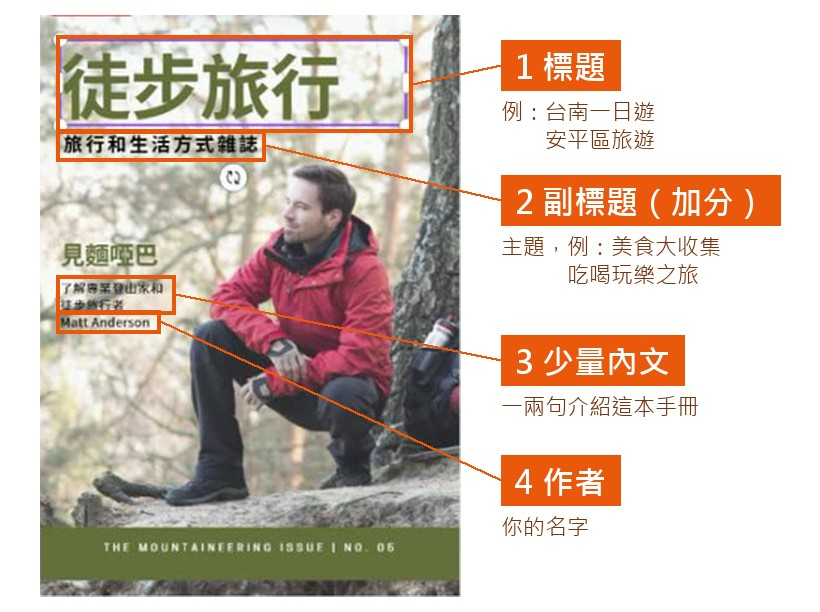
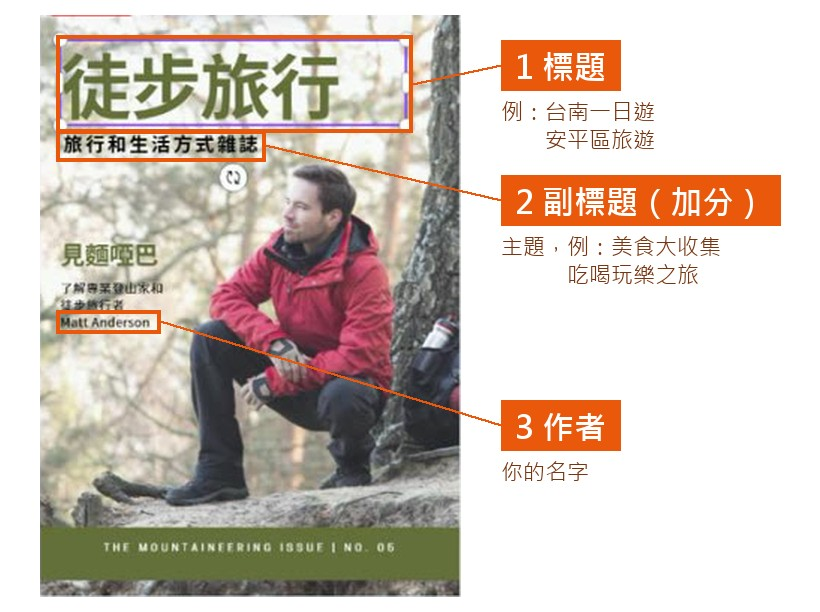
publish g4/L08

diff --git a/g4/L08/pages/第1課_開工與封面.html b/g4/L08/pages/第1課_開工與封面.html
@@ -222,8 +222,8 @@
   </section>
   <section class="step s-orange hidden" data-step="4">
     <div class="shead"><h2><span class="no">4</span>改封面的字</h2><a class="wlink" href="技能百科.html?cat=text"><svg viewBox="0 0 24 24" width="24" height="24" fill="none" stroke="currentColor" stroke-width="2.4" stroke-linecap="round" stroke-linejoin="round" aria-hidden="true"><path d="M4 5a2 2 0 0 1 2-2h13v16H6a2 2 0 0 0-2 2z"/><path d="M4 19V5"/><path d="M9 8h6"/></svg>技能百科：文字</a></div>
-    <div class="goalcard"><img src="../assets/封面_改哪裡.jpg" alt="範本封面：1 標題、2 副標題（加分）、3 少量內文、4 作者，各在哪裡改" class="shot zoomable"><div class="say">封面要有：<br><b>1 標題</b>（例：台南一日遊、安平區旅遊）<br><b>2 副標題</b>＝主題（例：美食大收集、吃喝玩樂之旅）<span style="color:var(--brand-d)">，加分</span><br><b>3 少量內文</b>：一兩句介紹<br><b>4 作者</b>：你的名字<br><a class="btn-s" href="https://boyinslps.github.io/pcclass/g4/L04/" target="_blank" rel="noopener">打開我的景點資料（L04）↗</a><p class="sub" style="color:var(--muted)">範本的照片先留著；用不到的字，點一下框按 Delete 刪掉。</p></div></div><div class="sc sc-flat sc-nonum" data-sc><div class="sc-slide"><p class="sc-t">連按兩下改字，再調樣子和位置</p><div class="ss" data-ss data-imgs='[{&quot;src&quot;: &quot;../assets/步圖/改封面文字_01.jpg&quot;, &quot;cap&quot;: &quot;連按兩下書名&quot;}, {&quot;src&quot;: &quot;../assets/步圖/改封面文字_02.jpg&quot;, &quot;cap&quot;: &quot;按 Ctrl＋A，打自己的書名&quot;}, {&quot;src&quot;: &quot;../assets/步圖/改封面文字_03.jpg&quot;, &quot;cap&quot;: &quot;工具列：字型、大小、顏色&quot;}, {&quot;src&quot;: &quot;../assets/步圖/改封面文字_04.jpg&quot;, &quot;cap&quot;: &quot;按字型，左邊點一個&quot;}, {&quot;src&quot;: &quot;../assets/步圖/改封面文字_05.jpg&quot;, &quot;cap&quot;: &quot;按住框拖過去；白點調大小&quot;}, {&quot;src&quot;: &quot;../assets/步圖/改封面文字_06.jpg&quot;, &quot;cap&quot;: &quot;按住框拖過去；白點調大小&quot;}, {&quot;src&quot;: &quot;../assets/步圖/改封面文字_07.jpg&quot;, &quot;cap&quot;: &quot;按住框拖過去；白點調大小&quot;}, {&quot;src&quot;: &quot;../assets/步圖/改封面文字_08.jpg&quot;, &quot;cap&quot;: &quot;按住框拖過去；白點調大小&quot;}, {&quot;src&quot;: &quot;../assets/步圖/改封面文字_09.jpg&quot;, &quot;cap&quot;: &quot;封面的字改好了&quot;}]' data-video="../assets/步_canva_改封面文字.mp4"></div><p class="tip">字型：選後面寫「<b>繁體中文</b>」的。</p><p class="tip">用不到的字：點一下框 → <kbd>Delete</kbd>。</p><a class="bigwiki" href="技能百科.html?cat=text"><svg viewBox="0 0 24 24" width="24" height="24" fill="none" stroke="currentColor" stroke-width="2.4" stroke-linecap="round" stroke-linejoin="round" aria-hidden="true"><path d="M4 5a2 2 0 0 1 2-2h13v16H6a2 2 0 0 0-2 2z"/><path d="M4 19V5"/><path d="M9 8h6"/></svg>忘記怎麼做？→ 技能百科：文字</a></div></div><div class="sc sc-flat sc-nonum" data-sc><div class="sc-slide"><p class="sc-t">範本裡沒有的字？自己<b>新增</b>：標題、少量內文</p><div class="legend"><div><span class="n">1</span><span>左邊按「<b>文字</b>」</span></div><div><span class="n">2</span><span>大字用「<b>新增標題</b>」（標題、副標題）</span></div><div><span class="n">3</span><span>小字用「<b>新增少量內文文字</b>」（內文、作者）</span></div></div><div class="ss" data-ss data-imgs='[{&quot;src&quot;: &quot;../assets/步圖/加文字_01.jpg&quot;, &quot;cap&quot;: &quot;點左邊的「文字」&quot;}, {&quot;src&quot;: &quot;../assets/步圖/加文字_02.jpg&quot;, &quot;cap&quot;: &quot;點「新增標題」&quot;}, {&quot;src&quot;: &quot;../assets/步圖/加文字_03.jpg&quot;, &quot;cap&quot;: &quot;連按兩下，Ctrl＋A，直接打字&quot;}, {&quot;src&quot;: &quot;../assets/步圖/加文字_05.jpg&quot;, &quot;cap&quot;: &quot;按住文字，拖到想放的地方&quot;}]' data-video="../assets/步_canva_加文字.mp4"></div><p class="tip">圖裡是做第 2 頁標題的樣子，封面照著做就好。</p><a class="bigwiki" href="技能百科.html#add-text"><svg viewBox="0 0 24 24" width="24" height="24" fill="none" stroke="currentColor" stroke-width="2.4" stroke-linecap="round" stroke-linejoin="round" aria-hidden="true"><path d="M4 5a2 2 0 0 1 2-2h13v16H6a2 2 0 0 0-2 2z"/><path d="M4 19V5"/><path d="M9 8h6"/></svg>忘記怎麼做？→ 技能百科：加新的文字</a></div></div><div class="terms"><span class="th">📖 名詞小卡</span><dl><div class="row"><div class="tx"><dt>標題</dt><dd>：最上面最大的字，說明這是什麼（封面＝書名）</dd></div></div><div class="row"><div class="tx"><dt>副標題</dt><dd>：標題下面比較小的字，寫這本手冊的主題</dd></div></div><div class="row"><div class="tx"><dt>少量內文</dt><dd>：幾行小小的字，用來寫簡短的介紹</dd></div></div><div class="row"><div class="tx"><dt>文字框</dt><dd>：圍住一段字的框，拖框就能移動字</dd></div></div><div class="row"><div class="tx"><dt>字型</dt><dd>：字的樣子；要選標示「繁體中文」的，中文才會正常顯示</dd></div></div></dl></div>
-    <div class="checkbox"><p class="cbt">這一步檢查</p><label><input type="checkbox" class="chk"> <span>有我自己的<b>標題</b>（例：台南一日遊）</span></label><label><input type="checkbox" class="chk"> <span>有<b>作者</b>（我的名字）</span></label><label><input type="checkbox" class="chk"> <span>有一兩句<b>少量內文</b></span></label><label><input type="checkbox" class="chk"> <span><b>字型、大小、顏色、位置</b>，至少改了一項</span></label><label><input type="checkbox" class="chk"> <span>⭐ 加分：有<b>副標題</b>（主題）</span></label></div>
+    <div class="goalcard"><img src="../assets/封面_改哪裡.jpg" alt="範本封面：1 標題、2 副標題（加分）、3 作者，各在哪裡改" class="shot zoomable"><div class="say">封面要有：<br><b>1 標題</b>（例：台南一日遊、安平區旅遊）<br><b>2 副標題</b>＝主題（例：美食大收集、吃喝玩樂之旅）<span style="color:var(--brand-d)">，加分</span><br><b>3 作者</b>：你的名字<br><a class="btn-s" href="https://boyinslps.github.io/pcclass/g4/L04/" target="_blank" rel="noopener">打開我的景點資料（L04）↗</a><p class="sub" style="color:var(--muted)">範本的照片先留著；用不到的字，點一下框按 Delete 刪掉。</p></div></div><div class="sc sc-flat sc-nonum" data-sc><div class="sc-slide"><p class="sc-t">連按兩下改字，再調樣子和位置</p><div class="ss" data-ss data-imgs='[{&quot;src&quot;: &quot;../assets/步圖/改封面文字_01.jpg&quot;, &quot;cap&quot;: &quot;連按兩下書名&quot;}, {&quot;src&quot;: &quot;../assets/步圖/改封面文字_02.jpg&quot;, &quot;cap&quot;: &quot;按 Ctrl＋A，打自己的書名&quot;}, {&quot;src&quot;: &quot;../assets/步圖/改封面文字_03.jpg&quot;, &quot;cap&quot;: &quot;工具列：字型、大小、顏色&quot;}, {&quot;src&quot;: &quot;../assets/步圖/改封面文字_04.jpg&quot;, &quot;cap&quot;: &quot;按字型，左邊點一個&quot;}, {&quot;src&quot;: &quot;../assets/步圖/改封面文字_05.jpg&quot;, &quot;cap&quot;: &quot;按住框拖過去；白點調大小&quot;}, {&quot;src&quot;: &quot;../assets/步圖/改封面文字_06.jpg&quot;, &quot;cap&quot;: &quot;按住框拖過去；白點調大小&quot;}, {&quot;src&quot;: &quot;../assets/步圖/改封面文字_07.jpg&quot;, &quot;cap&quot;: &quot;按住框拖過去；白點調大小&quot;}, {&quot;src&quot;: &quot;../assets/步圖/改封面文字_08.jpg&quot;, &quot;cap&quot;: &quot;按住框拖過去；白點調大小&quot;}, {&quot;src&quot;: &quot;../assets/步圖/改封面文字_09.jpg&quot;, &quot;cap&quot;: &quot;封面的字改好了&quot;}]' data-video="../assets/步_canva_改封面文字.mp4"></div><p class="tip">字型：選後面寫「<b>繁體中文</b>」的。</p><p class="tip">用不到的字：點一下框 → <kbd>Delete</kbd>。</p><a class="bigwiki" href="技能百科.html?cat=text"><svg viewBox="0 0 24 24" width="24" height="24" fill="none" stroke="currentColor" stroke-width="2.4" stroke-linecap="round" stroke-linejoin="round" aria-hidden="true"><path d="M4 5a2 2 0 0 1 2-2h13v16H6a2 2 0 0 0-2 2z"/><path d="M4 19V5"/><path d="M9 8h6"/></svg>忘記怎麼做？→ 技能百科：文字</a></div></div><div class="sc sc-flat sc-nonum" data-sc><div class="sc-slide"><p class="sc-t">範本裡沒有的字？自己<b>新增</b>：標題、作者</p><div class="legend"><div><span class="n">1</span><span>左邊按「<b>文字</b>」</span></div><div><span class="n">2</span><span>大字用「<b>新增標題</b>」（標題、副標題）</span></div><div><span class="n">3</span><span>小字用「<b>新增少量內文文字</b>」（作者）</span></div></div><div class="ss" data-ss data-imgs='[{&quot;src&quot;: &quot;../assets/步圖/加文字_01.jpg&quot;, &quot;cap&quot;: &quot;點左邊的「文字」&quot;}, {&quot;src&quot;: &quot;../assets/步圖/加文字_02.jpg&quot;, &quot;cap&quot;: &quot;點「新增標題」&quot;}, {&quot;src&quot;: &quot;../assets/步圖/加文字_03.jpg&quot;, &quot;cap&quot;: &quot;連按兩下，Ctrl＋A，直接打字&quot;}, {&quot;src&quot;: &quot;../assets/步圖/加文字_05.jpg&quot;, &quot;cap&quot;: &quot;按住文字，拖到想放的地方&quot;}]' data-video="../assets/步_canva_加文字.mp4"></div><p class="tip">圖裡是做第 2 頁標題的樣子，封面照著做就好。</p><a class="bigwiki" href="技能百科.html#add-text"><svg viewBox="0 0 24 24" width="24" height="24" fill="none" stroke="currentColor" stroke-width="2.4" stroke-linecap="round" stroke-linejoin="round" aria-hidden="true"><path d="M4 5a2 2 0 0 1 2-2h13v16H6a2 2 0 0 0-2 2z"/><path d="M4 19V5"/><path d="M9 8h6"/></svg>忘記怎麼做？→ 技能百科：加新的文字</a></div></div><div class="terms"><span class="th">📖 名詞小卡</span><dl><div class="row"><div class="tx"><dt>標題</dt><dd>：最上面最大的字，說明這是什麼（封面＝書名）</dd></div></div><div class="row"><div class="tx"><dt>副標題</dt><dd>：標題下面比較小的字，寫這本手冊的主題</dd></div></div><div class="row"><div class="tx"><dt>作者</dt><dd>：寫這本手冊是誰做的，放你的名字</dd></div></div><div class="row"><div class="tx"><dt>文字框</dt><dd>：圍住一段字的框，拖框就能移動字</dd></div></div><div class="row"><div class="tx"><dt>字型</dt><dd>：字的樣子；要選標示「繁體中文」的，中文才會正常顯示</dd></div></div></dl></div>
+    <div class="checkbox"><p class="cbt">這一步檢查</p><label><input type="checkbox" class="chk"> <span>有我自己的<b>標題</b>（例：台南一日遊）</span></label><label><input type="checkbox" class="chk"> <span>有<b>作者</b>（我的名字）</span></label><label><input type="checkbox" class="chk"> <span><b>字型、大小、顏色、位置</b>，至少改了一項</span></label><label><input type="checkbox" class="chk"> <span>⭐ 加分：有<b>副標題</b>（主題）</span></label></div>
     <div class="stepnav"></div>
   </section>
   <section class="step s-rose hidden" data-step="5">
@@ -357,7 +357,7 @@ var firebaseConfig = {
   appId:"1:1034787516465:web:73c334b2ddad152c472510",
   measurementId:"G-37P75R7TZ7"
 };
-var LESSON={"ws": "g4-L08", "path": "g4/L08", "wstitle": "台南小導遊：Canva 導覽手冊 第 1 課（開 B5、認識畫面、範本封面）", "names": ["開文件", "認識畫面", "選範本", "改封面字", "交作業"], "quiz": [{"img": "../assets/介面題_左邊.jpg", "q": "橘色框起來的左邊這一排，是做什麼的？", "o": ["要加文字、照片、圖形，來這裡", "看這份作品有幾頁", "把作品分享給老師", "改作品的名字"], "a": 0, "why": "左邊工具列：要加東西，來這裡"}, {"img": "../assets/介面題_右上.jpg", "q": "橘色框起來的「分享」，是做什麼的？", "o": ["把字變大", "做好了，從這裡拿連結", "多一張新的紙", "換顏色"], "a": 1, "why": "分享：做好了，從這裡拿連結"}, {"img": "../assets/介面題_下方.jpg", "q": "橘色框起來的「＋」，按了會怎樣？", "o": ["刪掉這份作品", "把照片放大", "多一張新的紙", "存到電腦"], "a": 2, "why": "＋：多一張新的紙"}, {"img": "../assets/介面題_名字.jpg", "q": "點一下橘色框起來的名字，可以做什麼？", "o": ["換下一頁", "加照片", "拿分享連結", "改作品的名字"], "a": 3, "why": "點作品名字，可以改名"}], "qdefs": [{"id": "q2", "steps": [1], "label": "開 B5、改作品名字", "text": "開好空白 B5（176 × 250 公釐）、作品名字改好，兩項都勾選。"}, {"id": "q3", "steps": [2], "label": "認識畫面", "text": "在自己的畫面找到作品名字、左邊工具列、＋、分享（勾選），而且介面小測驗 4 題全對。"}, {"id": "q4", "steps": [3, 4], "label": "封面", "text": "封面用了一個範本、只有一頁封面、有自己的標題、作者和少量內文，字型／大小／顏色／位置至少改一項；加分：有副標題（主題）（全部勾選）。"}]};
+var LESSON={"ws": "g4-L08", "path": "g4/L08", "wstitle": "台南小導遊：Canva 導覽手冊 第 1 課（開 B5、認識畫面、範本封面）", "names": ["開文件", "認識畫面", "選範本", "改封面字", "交作業"], "quiz": [{"img": "../assets/介面題_左邊.jpg", "q": "橘色框起來的左邊這一排，是做什麼的？", "o": ["要加文字、照片、圖形，來這裡", "看這份作品有幾頁", "把作品分享給老師", "改作品的名字"], "a": 0, "why": "左邊工具列：要加東西，來這裡"}, {"img": "../assets/介面題_右上.jpg", "q": "橘色框起來的「分享」，是做什麼的？", "o": ["把字變大", "做好了，從這裡拿連結", "多一張新的紙", "換顏色"], "a": 1, "why": "分享：做好了，從這裡拿連結"}, {"img": "../assets/介面題_下方.jpg", "q": "橘色框起來的「＋」，按了會怎樣？", "o": ["刪掉這份作品", "把照片放大", "多一張新的紙", "存到電腦"], "a": 2, "why": "＋：多一張新的紙"}, {"img": "../assets/介面題_名字.jpg", "q": "點一下橘色框起來的名字，可以做什麼？", "o": ["換下一頁", "加照片", "拿分享連結", "改作品的名字"], "a": 3, "why": "點作品名字，可以改名"}], "qdefs": [{"id": "q2", "steps": [1], "label": "開 B5、改作品名字", "text": "開好空白 B5（176 × 250 公釐）、作品名字改好，兩項都勾選。"}, {"id": "q3", "steps": [2], "label": "認識畫面", "text": "在自己的畫面找到作品名字、左邊工具列、＋、分享（勾選），而且介面小測驗 4 題全對。"}, {"id": "q4", "steps": [3, 4], "label": "封面", "text": "封面用了一個範本、只有一頁封面、有自己的標題和作者，字型／大小／顏色／位置至少改一項；加分：有副標題（主題）（全部勾選）。"}]};
 
 (function(){
   function $(id){return document.getElementById(id);}

diff --git a/g4/L08/index.html b/g4/L08/index.html
@@ -164,7 +164,7 @@
   <section class="block" aria-labelledby="t-lessons">
     <h2 class="sec-title" id="t-lessons">單元進度</h2>
     <p class="sec-sub">一課做幾頁，五課做完一整本。</p>
-    <div class="lesson open"><div class="lnum">第 1 課</div><div class="lbody"><p class="ltitle">開工：B5 文件、認識畫面、範本封面</p><p class="lgoal">開好 B5 文件，封面有標題、作者和少量內文</p><div class="lskills"><a class="badge c-start" href="pages/技能百科.html#join" style="text-decoration:none">加入團隊、開 Canva</a><a class="badge c-start" href="pages/技能百科.html#open-b5" style="text-decoration:none">開 B5 新文件</a><a class="badge c-start" href="pages/技能百科.html#rename" style="text-decoration:none">改作品名字</a><a class="badge c-start" href="pages/技能百科.html#screen" style="text-decoration:none">認識編輯畫面</a><a class="badge c-start" href="pages/技能百科.html#undo" style="text-decoration:none">弄錯了：復原</a><a class="badge c-start" href="pages/技能百科.html#save" style="text-decoration:none">要存檔嗎？</a><a class="badge c-page" href="pages/技能百科.html#template" style="text-decoration:none">選範本</a><a class="badge c-text" href="pages/技能百科.html#edit-text" style="text-decoration:none">改文字</a><a class="badge c-text" href="pages/技能百科.html#delete" style="text-decoration:none">刪掉不要的字或圖</a><a class="badge c-text" href="pages/技能百科.html#font" style="text-decoration:none">換字型</a><a class="badge c-text" href="pages/技能百科.html#size-color" style="text-decoration:none">字的大小和顏色</a><a class="badge c-text" href="pages/技能百科.html#move-text" style="text-decoration:none">移動文字、調文字框</a><a class="badge c-done" href="pages/技能百科.html#share" style="text-decoration:none">繳交給老師（交作業）</a></div></div><a class="lgo" href="pages/第1課_開工與封面.html">進入第 1 課 →</a></div>
+    <div class="lesson open"><div class="lnum">第 1 課</div><div class="lbody"><p class="ltitle">開工：B5 文件、認識畫面、範本封面</p><p class="lgoal">開好 B5 文件，封面有標題和作者</p><div class="lskills"><a class="badge c-start" href="pages/技能百科.html#join" style="text-decoration:none">加入團隊、開 Canva</a><a class="badge c-start" href="pages/技能百科.html#open-b5" style="text-decoration:none">開 B5 新文件</a><a class="badge c-start" href="pages/技能百科.html#rename" style="text-decoration:none">改作品名字</a><a class="badge c-start" href="pages/技能百科.html#screen" style="text-decoration:none">認識編輯畫面</a><a class="badge c-start" href="pages/技能百科.html#undo" style="text-decoration:none">弄錯了：復原</a><a class="badge c-start" href="pages/技能百科.html#save" style="text-decoration:none">要存檔嗎？</a><a class="badge c-page" href="pages/技能百科.html#template" style="text-decoration:none">選範本</a><a class="badge c-text" href="pages/技能百科.html#edit-text" style="text-decoration:none">改文字</a><a class="badge c-text" href="pages/技能百科.html#delete" style="text-decoration:none">刪掉不要的字或圖</a><a class="badge c-text" href="pages/技能百科.html#font" style="text-decoration:none">換字型</a><a class="badge c-text" href="pages/技能百科.html#size-color" style="text-decoration:none">字的大小和顏色</a><a class="badge c-text" href="pages/技能百科.html#move-text" style="text-decoration:none">移動文字、調文字框</a><a class="badge c-done" href="pages/技能百科.html#share" style="text-decoration:none">繳交給老師（交作業）</a></div></div><a class="lgo" href="pages/第1課_開工與封面.html">進入第 1 課 →</a></div>
     <div class="lesson open"><div class="lnum">第 2 課</div><div class="lbody"><p class="ltitle">路線圖與行程時間表</p><p class="lgoal">用 Google 地圖畫路線，再排出行程時間表</p><div class="lskills"><a class="badge c-text" href="pages/技能百科.html#add-text" style="text-decoration:none">加新的文字</a><a class="badge c-image" href="pages/技能百科.html#upload-photo" style="text-decoration:none">上傳照片、放到紙上</a><a class="badge c-image" href="pages/技能百科.html#gmap-route" style="text-decoration:none">用 Google 地圖畫路線</a><a class="badge c-image" href="pages/技能百科.html#snip-paste" style="text-decoration:none">截圖貼到 Canva</a><a class="badge c-page" href="pages/技能百科.html#new-page" style="text-decoration:none">新增頁面、換頁</a><a class="badge c-text" href="pages/技能百科.html#align-list" style="text-decoration:none">靠左和項目符號</a></div></div><a class="lgo" href="pages/第2課_路線圖與行程.html">進入第 2 課 →</a></div>
     <div class="lesson soon" aria-disabled="true"><div class="lnum">第 3 課</div><div class="lbody"><p class="ltitle">第 1 站景點頁</p><p class="lgoal">照片 1～2 張、介紹、資訊；學會複製頁面</p><div class="lskills"><span class="badge c-all">從台南旅遊網存照片</span></div></div><span class="lgo"><svg viewBox="0 0 24 24" width="22" height="22" fill="none" stroke="currentColor" stroke-width="2.4" stroke-linecap="round" aria-hidden="true"><rect x="5" y="11" width="14" height="10" rx="2"/><path d="M8 11V8a4 4 0 0 1 8 0v3"/></svg>還沒開始</span></div>
     <div class="lesson soon" aria-disabled="true"><div class="lnum">第 4 課</div><div class="lbody"><p class="ltitle">其他景點與美食頁</p><p class="lgoal">複製第 1 站的頁來改，美食也算一站</p><div class="lskills"></div></div><span class="lgo"><svg viewBox="0 0 24 24" width="22" height="22" fill="none" stroke="currentColor" stroke-width="2.4" stroke-linecap="round" aria-hidden="true"><rect x="5" y="11" width="14" height="10" rx="2"/><path d="M8 11V8a4 4 0 0 1 8 0v3"/></svg>還沒開始</span></div>
